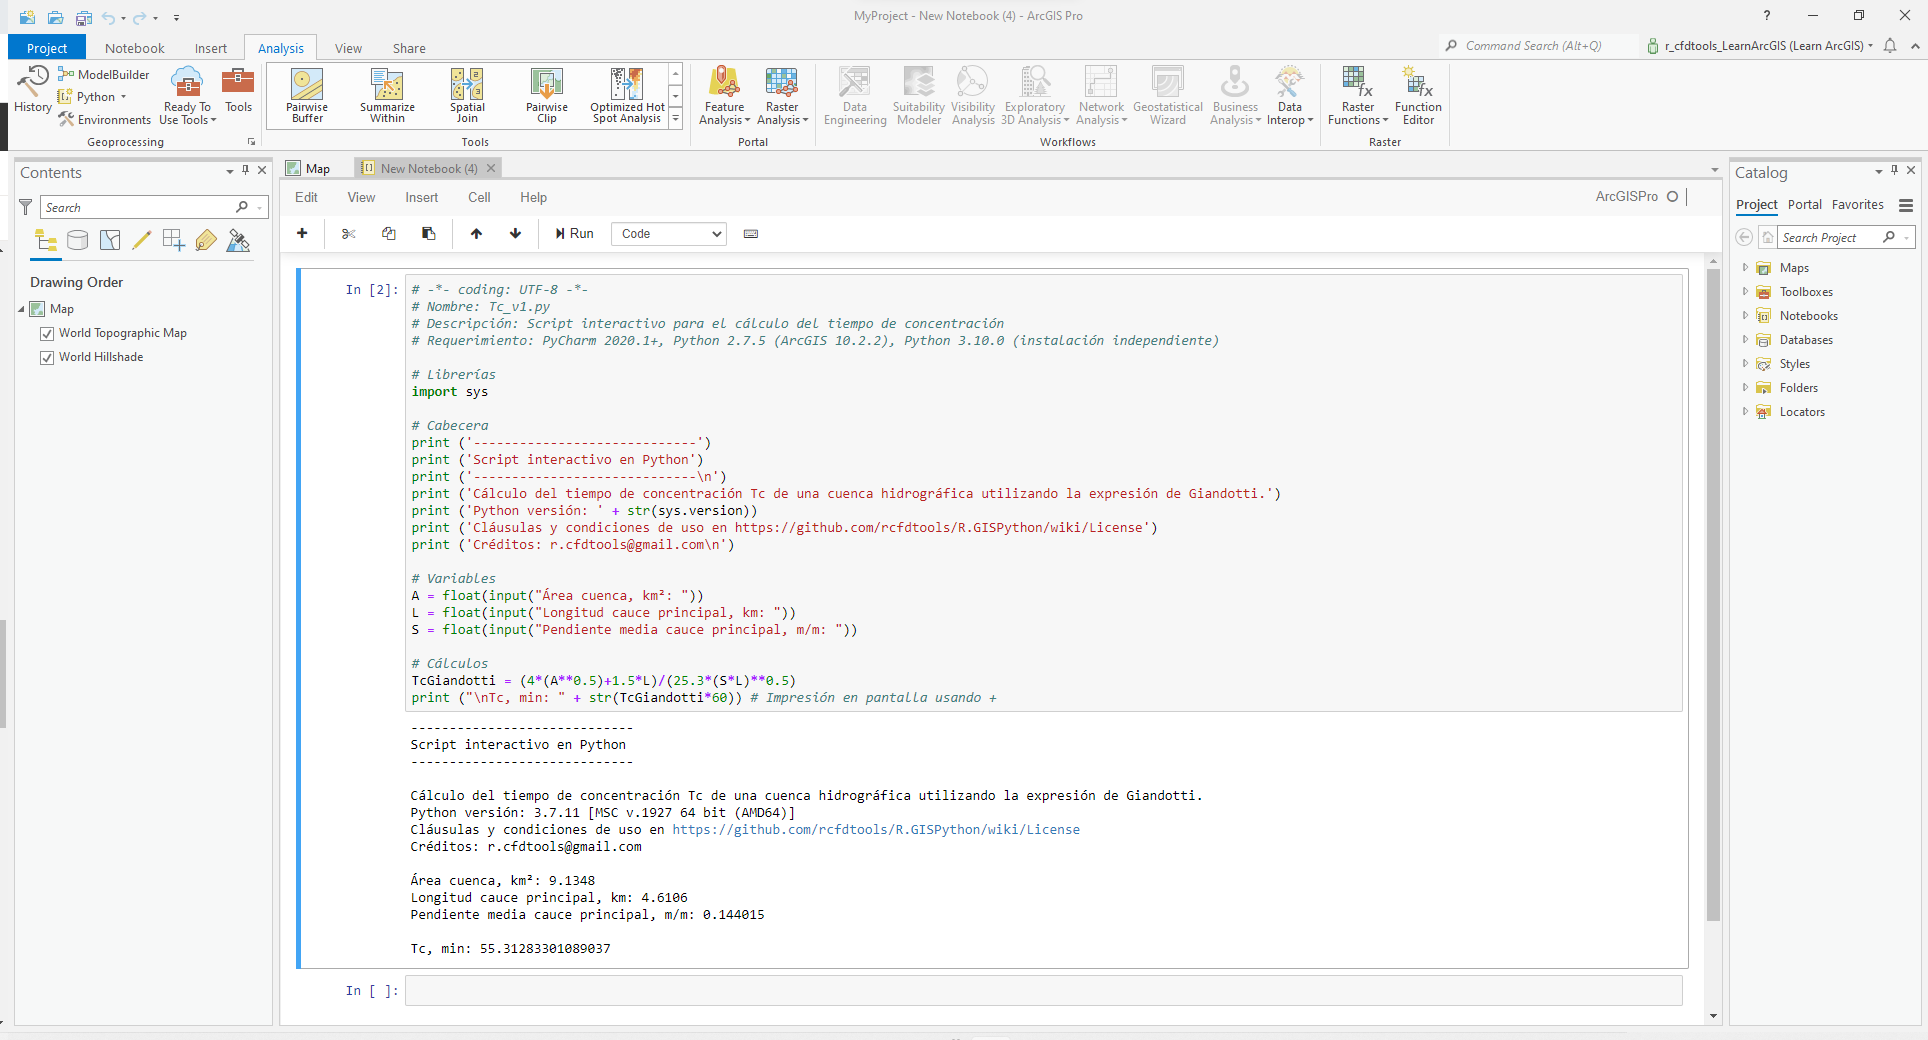
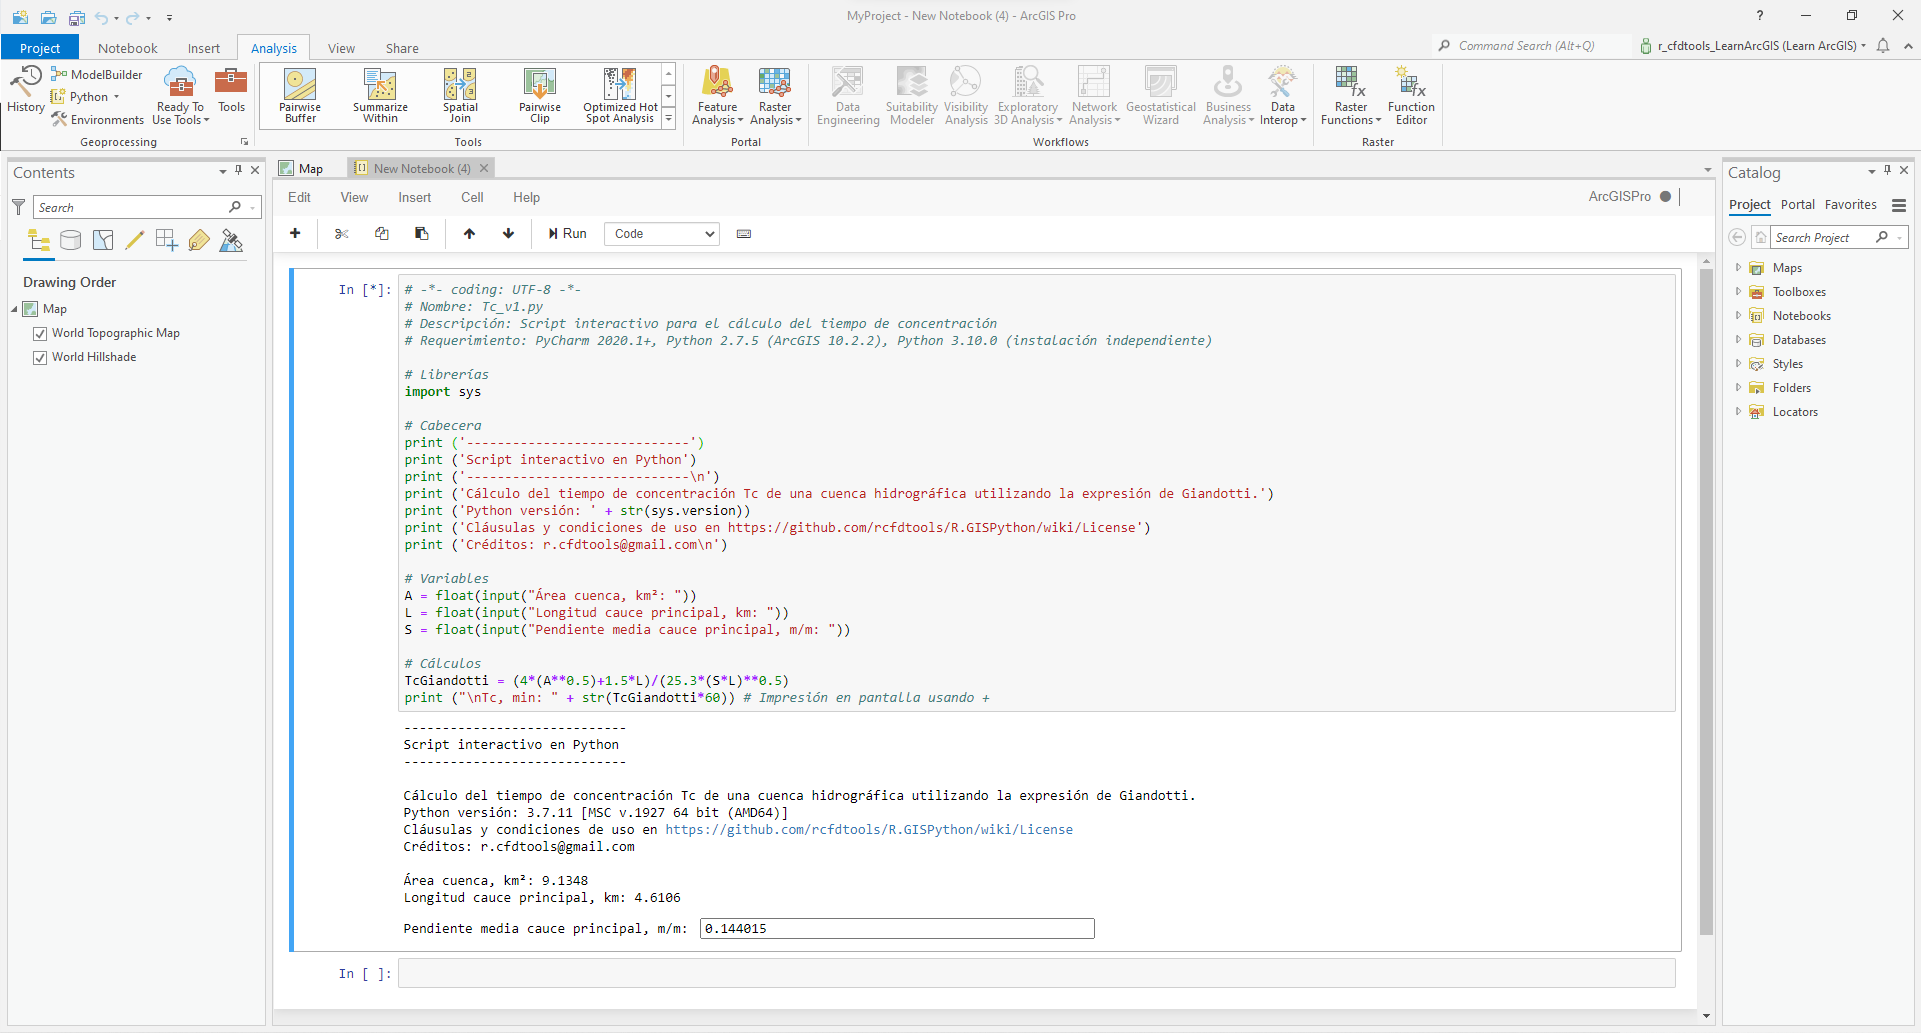
Actualización general

diff --git a/InteractiveScript/Readme.md b/InteractiveScript/Readme.md
@@ -1,6 +1,6 @@
 ## Creación de scripts interactivos
 
-Los scripts en Python permiten la entrada directa de datos desde la consola de comandos o desde el intérprete de comandos, para ello puede utilizar el comando `input()`.
+Los scripts en Python permiten la entrada directa de datos desde la consola de comandos o desde el intérprete de comandos, para ello puede utilizar el comando `input()`. En la interfaz gráfica de QGIS, las entradas de usuario se pueden realizar mediante QInputDialog.getText() y en ArcGIS Pro, la ejecución de este tipo de scripts puede ser realizada directamente desde Python Notebook.
 
 > Atención: Actualmente, ArcGIS for Desktop, ArcGIS Pro a través de consola y QGIS no permiten entradas `input()` desde scripts ejecutados directamente desde el entorno gráfico.<br>
 > En QGIS es necesario realizar la entrada desde un cuadro de diálogo, sin embargo, el script puede ser ejecutado desde PyCharm si se encuentra asociado el intérprete de Python asociado a QGIS. Más información en: https://gis.stackexchange.com/questions/53958/how-to-use-raw-input-in-qgis-python-console <br>
